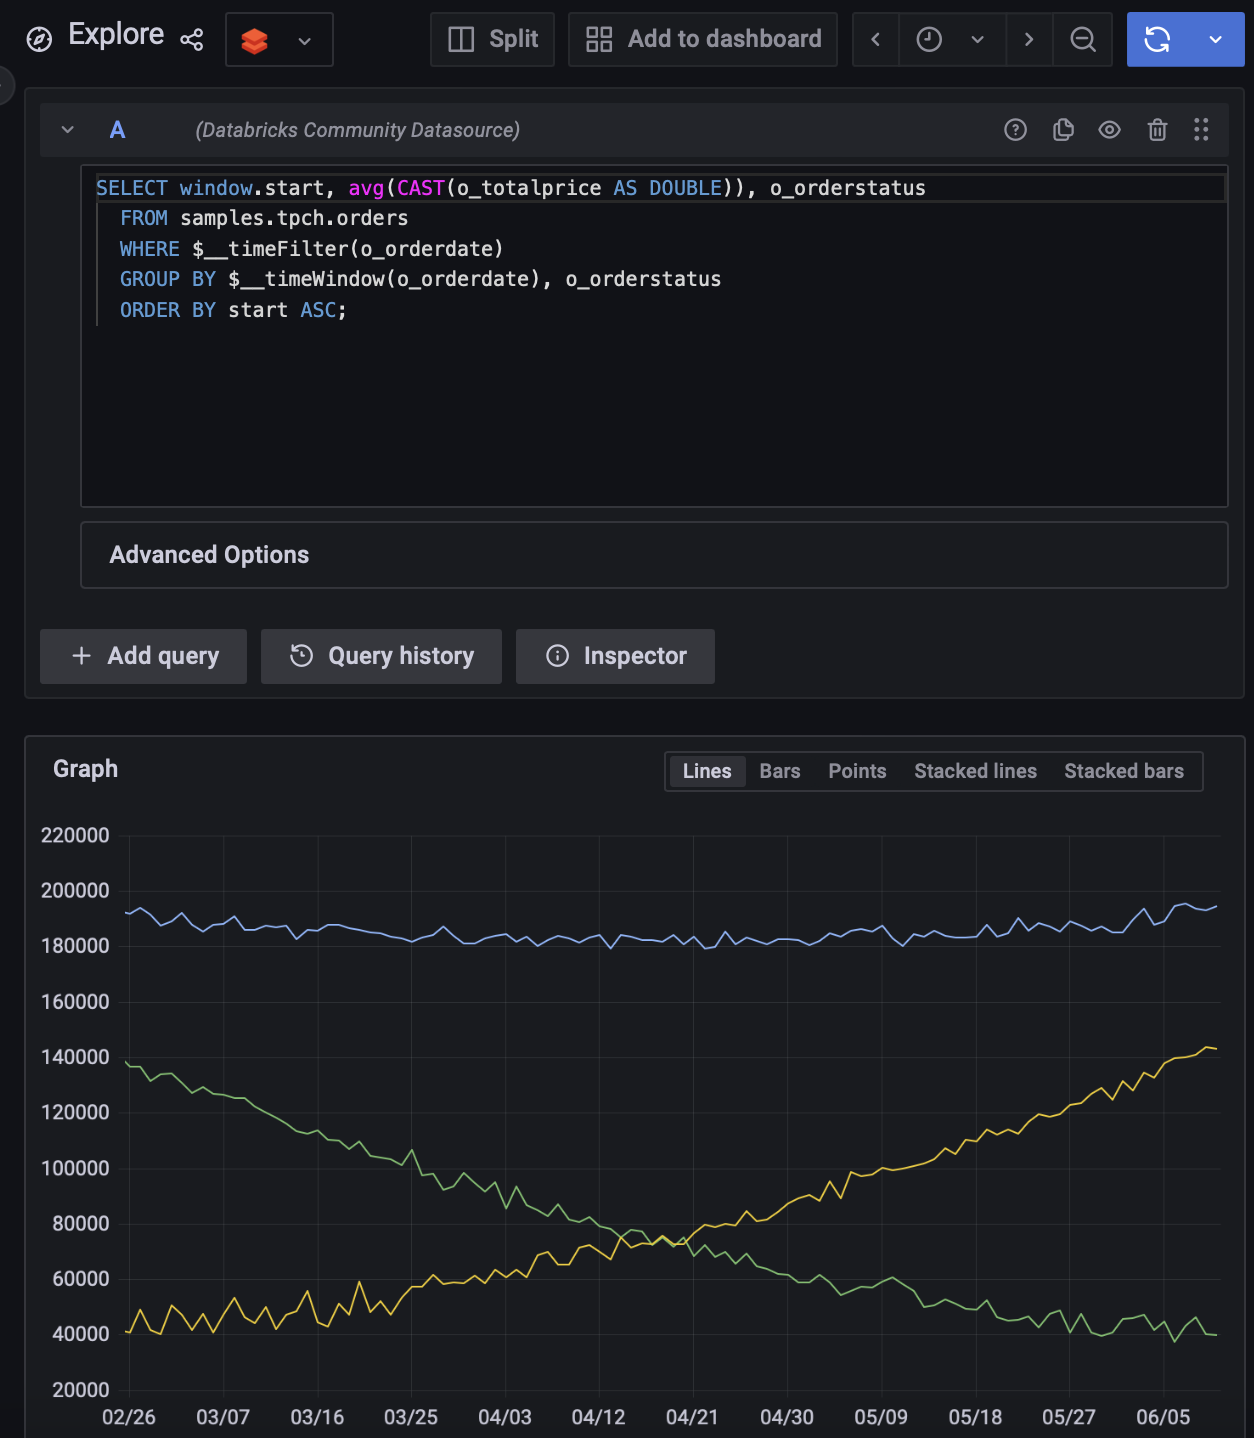
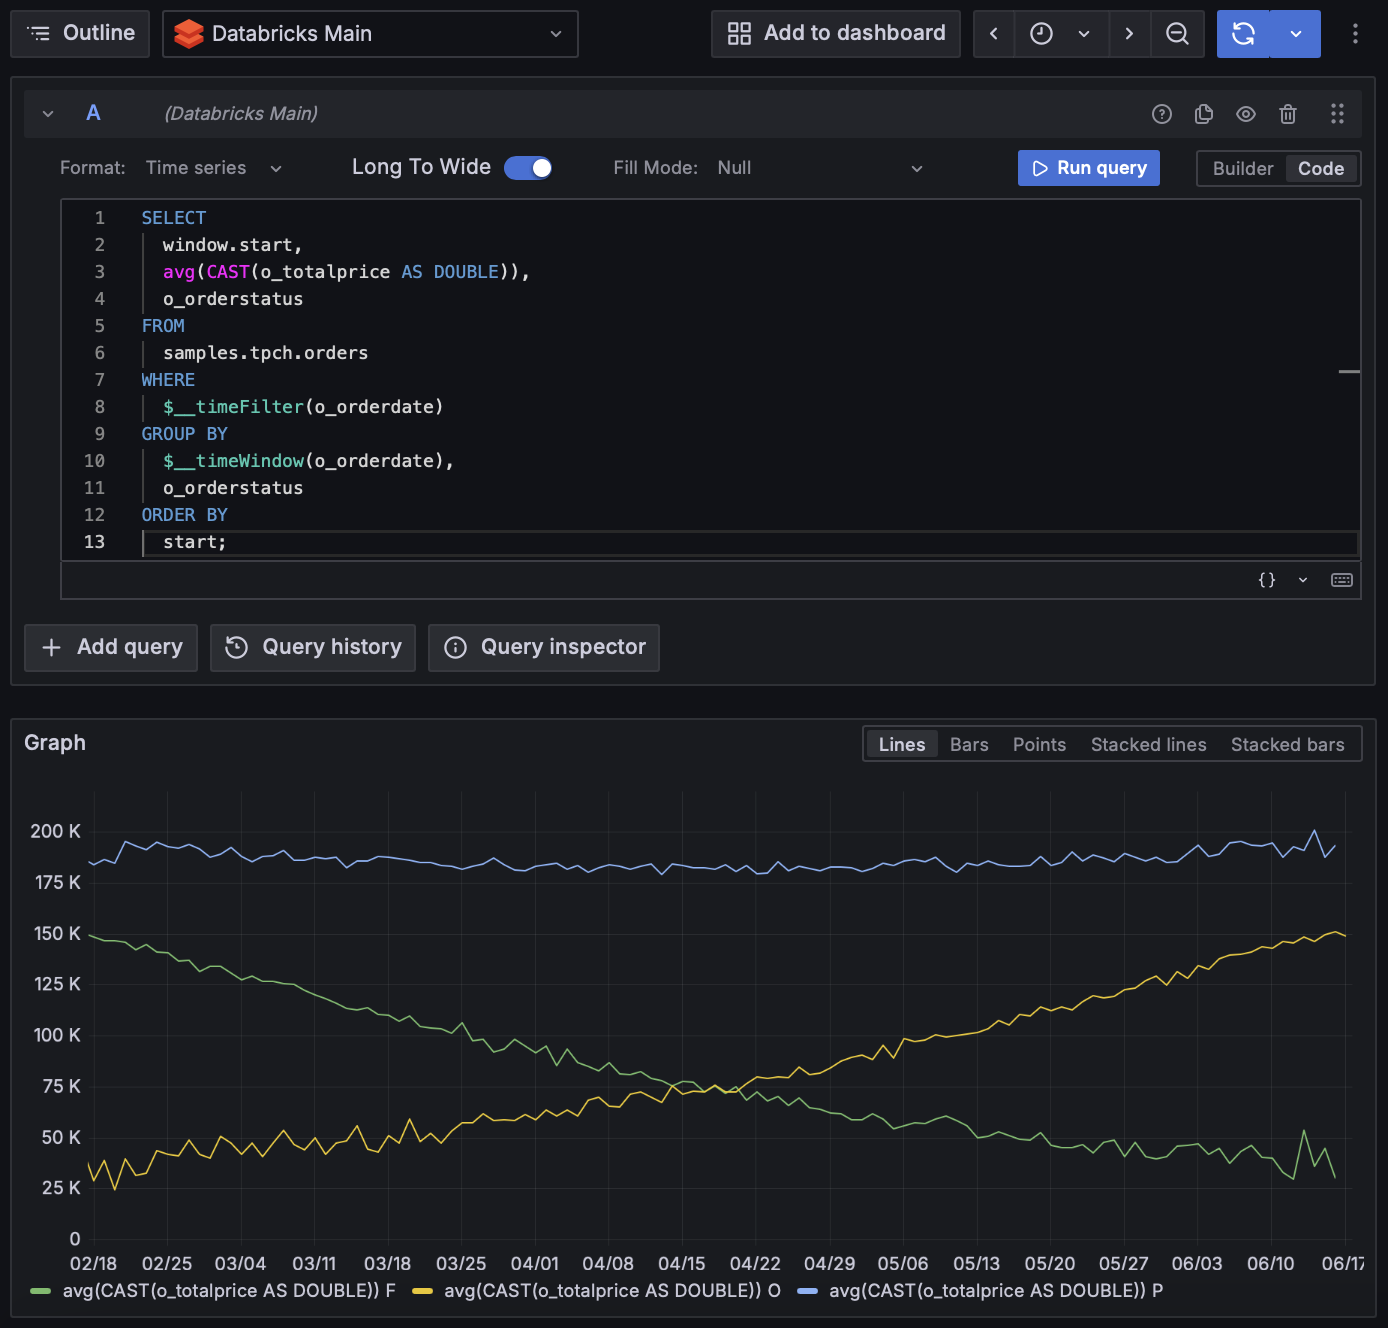
:memo: Doc: update Readme & some refactoring

diff --git a/src/components/ConfigEditor/ConfigEditor.tsx b/src/components/ConfigEditor/ConfigEditor.tsx
@@ -1,5 +1,5 @@
-import React, {ChangeEvent, FormEvent, PureComponent} from 'react';
-import { InlineField, Input, SecretInput, InlineSwitch, Alert, Select } from '@grafana/ui';
+import React, {ChangeEvent, PureComponent} from 'react';
+import { InlineField, Input, SecretInput, Select } from '@grafana/ui';
 import { DataSourcePluginOptionsEditorProps } from '@grafana/data';
 import { DatabricksDataSourceOptions, DatabricksSecureJsonData } from '../../types';
 
@@ -73,17 +73,6 @@ export class ConfigEditor extends PureComponent<Props, State> {
       jsonData: {
         ...options.jsonData,
         path: event.target.value.replace(/^\//, ''),
-      },
-    });
-  };
-
-  onAutoCompletionChange = (event: FormEvent<HTMLInputElement>) => {
-    const { onOptionsChange, options } = this.props;
-    onOptionsChange({
-      ...options,
-      jsonData: {
-        ...options.jsonData,
-        autoCompletion: event.currentTarget.checked,
       },
     });
   };
@@ -239,22 +228,6 @@ export class ConfigEditor extends PureComponent<Props, State> {
                   />
                 </InlineField>
             )}
-          </div>
-          <div className="gf-form-group">
-            <Alert title="Code Auto Completion (Experimental Feature)" severity="info">
-              <div>
-                Auto Completion for the code editor is still in development. Basic functionality is implemented,
-                but might not always work perfectly. When enabled, the editor will make requests to Databricks
-                while typing to get the available catalogs, schemas, tables and columns. Only the tables present
-                in the current query will be fetched.
-              </div>
-            </Alert>
-            <InlineField label="Code Auto Completion" labelWidth={30} tooltip="Enable code auto completion for SQL queries.">
-              <InlineSwitch
-                  value={jsonData.autoCompletion || false}
-                  onChange={this.onAutoCompletionChange}
-              />
-            </InlineField>
           </div>
         </>
     );

diff --git a/src/datasource.ts b/src/datasource.ts
@@ -43,7 +43,11 @@ export class DatabricksDatasource extends SqlDatasource {
     return this.unityCatalogEnabled;
   }
 
-  addToFetchedCatalogsSchemas(catalog: string, schema: string | undefined): void {
+  addToFetchedCatalogsSchemas(catalog: string | undefined, schema: string | undefined): void {
+    catalog = catalog || this.defaultCatalog;
+    if (!catalog) {
+      return;
+    }
     if (!this.fetchedCatalogsSchemas.catalogs[catalog]) {
       this.fetchedCatalogsSchemas.catalogs[catalog] = {
         name: catalog,

diff --git a/src/types.ts b/src/types.ts
@@ -7,7 +7,6 @@ export interface DatabricksDataSourceOptions extends SQLOptions {
   hostname?: string;
   port?: string;
   path?: string;
-  autoCompletion?: boolean;
   authenticationMethod?: string;
   clientId?: string;
   externalCredentialsUrl?: string;

diff --git a/README.md b/README.md
@@ -72,7 +72,6 @@ Available configuration fields are as follows:
 | Client Secret         | Databricks Service Principal Client Secret. (only if OAuth / OAuth2 is chosen as Auth Method)                |
 | Access Token          | Personal Access Token for Databricks. (only if PAT is chosen as Auth Method)                                 |
 | OAuth2 Token Endpoint | URL of OAuth2 endpoint (only if OAuth2 Client Credentials Authentication is chosen as Auth Method)           |
-| Code Auto Completion  | If enabled the SQL editor will fetch catalogs/schemas/tables/columns from Databricks to provide suggestions. |
 
 ### Supported Macros
 
@@ -89,27 +88,26 @@ Additionally the following Macros can be used within a query to simplify syntax 
 
 ## Write a query
 
-Use the query editor to write a query, you can use sparksql syntax according to the [Databricks SQL Reference](https://docs.databricks.com/sql/language-manual/index.html).
+You can write a query in two ways: using the visual query builder or the code editor.
+
+### Visual Query Builder
+
+Simple queries can be created using the visual query builder. The visual query builder will automatically fetch the avaible catalogs, schemas, tables & columns from the Databricks Instance. The build query will be displayed in the preview window. 
+
+Support for complex queries is limited, for more complex queries use the code editor, which also supports all available macros.
+
+![img.png](img/visual_query_editor.png)
+
+### Code Editor
+
+Use the code editor to write a query, you can use sparksql syntax according to the [Databricks SQL Reference](https://docs.databricks.com/sql/language-manual/index.html). The code editor supports all available macros and code autocompletion.
+
+![img.png](img/code_query_editor.png)
 
 #### Long to Wide Transformation
 
-By default, the plugin will return the results in wide format. This behavior can be changed in the advanced options of the query editor.
+Both the Visual Query Builder and the Code Editor support the transformation of long to wide tables. If enabled this transformation will be executed on the Grafana backend before the data is returned to the frontend. This functionality is useful incase you want the query to return multiple time series, as not all Grafana visualizations support long format tables for multiple metrics.
 
-![img.png](img/advanced_options.png)
-
-#### Code Auto Completion
-
-Auto Completion for the code editor is still in development. Basic functionality is implemented,
-but might not always work perfectly. When enabled, the editor will make requests to Databricks
-while typing to get the available catalogs, schemas, tables and columns. Only the tables present
-in the current query will be fetched.
-Additionally, the editor will also make suggestions for 
-Databricks SQL functions & keywords and Grafana macros.
-
-The feature can be enabled in the Datasource Settings.
-
-<img alt="img.png" src="img/autocomplete-02.png" width="52%"/>
-<img alt="img.png" src="img/autocomplete-01.png" width="40%"/>
 
 ### Examples
 #### Single Value Time Series
@@ -123,11 +121,19 @@ GROUP BY $__timeWindow(time_column);
 #### Multiple Values Time Series
 
 ```sparksql
-SELECT window.start, avg(o_totalprice), o_orderstatus
-FROM samples.tpch.orders
-WHERE $__timeFilter(o_orderdate)
-GROUP BY $__timeWindow(o_orderdate), o_orderstatus
-ORDER BY start ASC;
+SELECT
+    window.start,
+    avg(CAST(o_totalprice AS DOUBLE)),
+    o_orderstatus
+FROM
+    samples.tpch.orders
+WHERE
+    $__timeFilter(o_orderdate)
+GROUP BY
+    $__timeWindow(o_orderdate),
+    o_orderstatus
+ORDER BY
+    start;
 ```
 
 # Development
